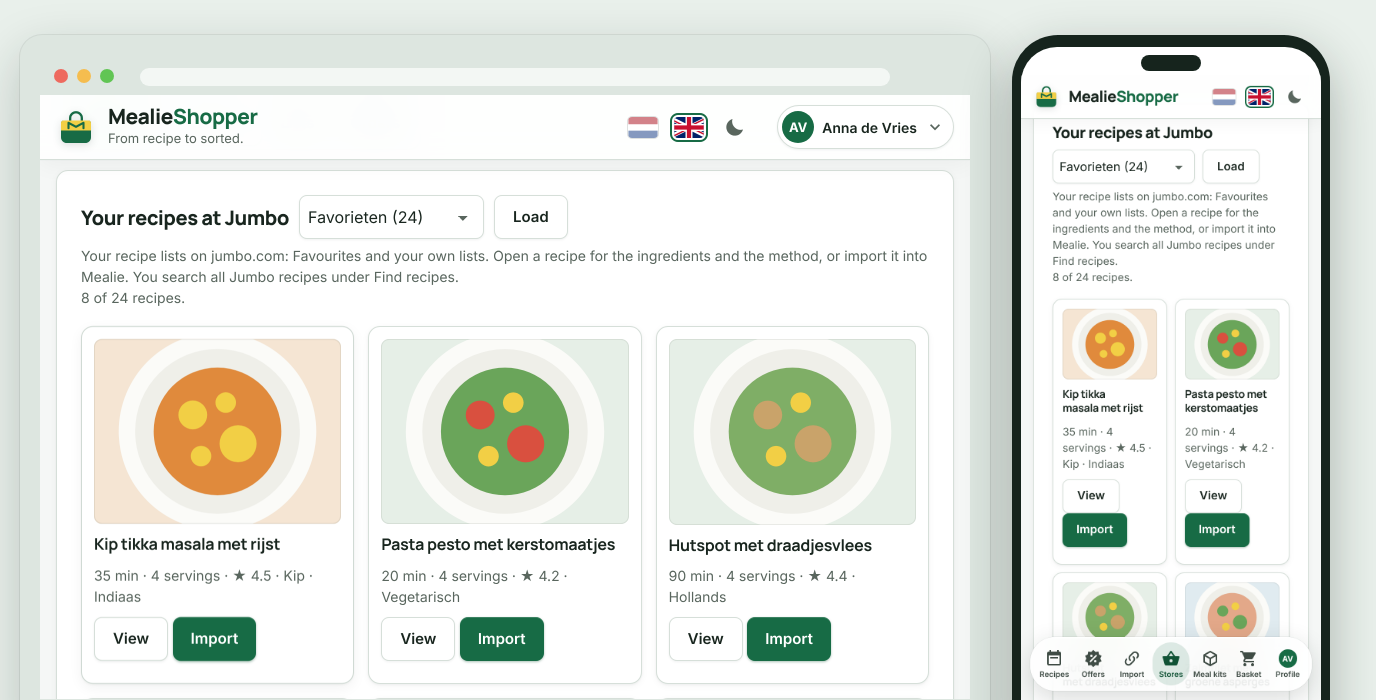
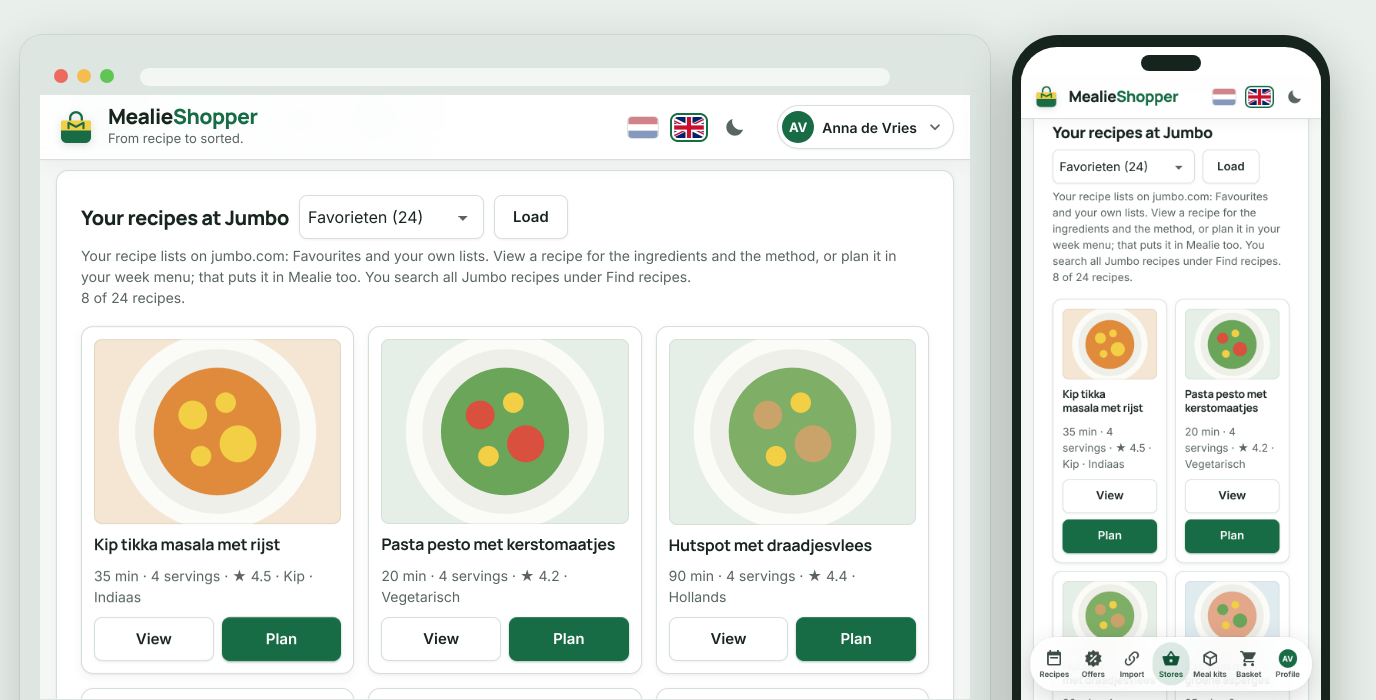
Picnic- en Jumbo-recepten: uitleg noemt Bekijken en Inplannen (2.85.2)
De uitleg boven de recepten bij Winkels > Picnic en Winkels > Jumbo zei nog
"Open een recept ..., of importeer het in Mealie". Sinds 2.83.0 (#162) heeft
elke kaart Bekijken en Inplannen; importeren zonder inplannen gaat alleen
vanuit het recept. De tekst volgt nu Recepten zoeken en Maaltijdboxen, in
nl.js, en.js en de Nederlandse terugvaltekst in index.html. De README
(Winkels: Picnic) is in beide talen op dezelfde manier bijgewerkt.

- VERSION 2.85.2, add-ons bijgewerkt met scripts/ha_addon.py
- MEALIESHOPPER_ASSET_VERSION 20261101-63 voor de gewijzigde vertalingen
- Screenshots picnic-recipes en jumbo-recipes (nl en en) opnieuw gemaakt

Claude-Session: https://claude.ai/code/session_01KSdu55fnhxTG7PNXzdFtso

diff --git a/templates/index.html b/templates/index.html
@@ -686,7 +686,7 @@
             <svg class="searchbar__icon" viewBox="0 0 24 24" aria-hidden="true"><path d="M9.5,3A6.5,6.5 0 0,1 16,9.5C16,11.11 15.41,12.59 14.44,13.73L14.71,14H15.5L20.5,19L19,20.5L14,15.5V14.71L13.73,14.44C12.59,15.41 11.11,16 9.5,16A6.5,6.5 0 0,1 3,9.5A6.5,6.5 0 0,1 9.5,3M9.5,5C7,5 5,7 5,9.5C5,12 7,14 9.5,14C12,14 14,12 14,9.5C14,7 12,5 9.5,5Z"/></svg>
             <input class="input" id="picnic-recipe-filter" type="search" placeholder="Zoek in de recepten" autocomplete="off" enterkeyhint="search" disabled data-i18n-attr="placeholder:picnic.recipes.search">
           </label>
-          <p class="muted" data-i18n="picnic.recipes.intro">Je recepten uit de Picnic-app: Koken > Bewaard, Opnieuw bestellen en het kookboek. Open een recept voor de ingrediënten en de bereiding, of importeer het in Mealie.</p>
+          <p class="muted" data-i18n="picnic.recipes.intro">Je recepten uit de Picnic-app: Koken > Bewaard, Opnieuw bestellen en het kookboek. Bekijk een recept voor de ingrediënten en de bereiding, of plan het in je weekmenu; dan komt het ook in Mealie.</p>
           <p class="muted" id="picnic-recipes-status"></p>
           <div id="picnic-recipes-message"></div>
           <div id="picnic-recipes" class="recipe-grid recipe-grid--compact"></div>
@@ -726,7 +726,7 @@
             <select id="jumbo-recipe-list" class="store-select" hidden aria-label="Lijst" data-i18n-attr="aria-label:jumbo.favorites.list"></select>
             <button class="button button--secondary" id="load-jumbo-favorites" type="button" data-i18n="common.load">Laden</button>
           </div>
-          <p class="muted" data-i18n="jumbo.favorites.intro">Je receptenlijsten op jumbo.com: Favorieten en je eigen lijstjes. Open een recept voor de ingrediënten en de bereiding, of importeer het in Mealie. Zoeken in alle Jumbo-recepten doe je bij Recepten zoeken.</p>
+          <p class="muted" data-i18n="jumbo.favorites.intro">Je receptenlijsten op jumbo.com: Favorieten en je eigen lijstjes. Bekijk een recept voor de ingrediënten en de bereiding, of plan het in je weekmenu; dan komt het ook in Mealie. Zoeken in alle Jumbo-recepten doe je bij Recepten zoeken.</p>
           <p class="muted" id="jumbo-favorites-status"></p>
           <div id="jumbo-favorites-message"></div>
           <div id="jumbo-favorites" class="recipe-grid recipe-grid--compact"></div>

diff --git a/static/i18n/nl.js b/static/i18n/nl.js
@@ -341,7 +341,7 @@ I18N.add("nl", {
   "rsearch.no_steps_mealie": "Dit recept heeft in Mealie geen bereiding.",
   "jumbo.favorites.tab": "Recepten",
   "jumbo.favorites.title": "Je recepten bij Jumbo",
-  "jumbo.favorites.intro": "Je receptenlijsten op jumbo.com: Favorieten en je eigen lijstjes. Open een recept voor de ingrediënten en de bereiding, of importeer het in Mealie. Zoeken in alle Jumbo-recepten doe je bij Recepten zoeken.",
+  "jumbo.favorites.intro": "Je receptenlijsten op jumbo.com: Favorieten en je eigen lijstjes. Bekijk een recept voor de ingrediënten en de bereiding, of plan het in je weekmenu; dan komt het ook in Mealie. Zoeken in alle Jumbo-recepten doe je bij Recepten zoeken.",
   "jumbo.favorites.none": "Deze lijst heeft geen recepten.",
   "jumbo.favorites.back": "Terug naar de lijst",
   "jumbo.favorites.list": "Lijst",
@@ -904,7 +904,7 @@ I18N.add("nl", {
   "picnic.recipes.source_ordered": "Opnieuw bestellen",
   "picnic.recipes.source_cookbook": "Kookboek",
   "picnic.recipes.search": "Zoek in de recepten",
-  "picnic.recipes.intro": "Je recepten uit de Picnic-app: Koken > Bewaard, Opnieuw bestellen en het kookboek. Open een recept voor de ingrediënten en de bereiding, of importeer het in Mealie.",
+  "picnic.recipes.intro": "Je recepten uit de Picnic-app: Koken > Bewaard, Opnieuw bestellen en het kookboek. Bekijk een recept voor de ingrediënten en de bereiding, of plan het in je weekmenu; dan komt het ook in Mealie.",
   "picnic.recipes.count": "Aantal recepten: {count}.",
   "picnic.recipes.none": "Er staan geen recepten in deze lijst.",
   "picnic.recipes.none_match": "Geen recept met \"{query}\".",

diff --git a/static/i18n/en.js b/static/i18n/en.js
@@ -341,7 +341,7 @@ I18N.add("en", {
   "rsearch.no_steps_mealie": "This recipe has no instructions in Mealie.",
   "jumbo.favorites.tab": "Recipes",
   "jumbo.favorites.title": "Your recipes at Jumbo",
-  "jumbo.favorites.intro": "Your recipe lists on jumbo.com: Favourites and your own lists. Open a recipe for the ingredients and the method, or import it into Mealie. You search all Jumbo recipes under Find recipes.",
+  "jumbo.favorites.intro": "Your recipe lists on jumbo.com: Favourites and your own lists. View a recipe for the ingredients and the method, or plan it in your week menu; that puts it in Mealie too. You search all Jumbo recipes under Find recipes.",
   "jumbo.favorites.none": "This list has no recipes.",
   "jumbo.favorites.back": "Back to the list",
   "jumbo.favorites.list": "List",
@@ -904,7 +904,7 @@ I18N.add("en", {
   "picnic.recipes.source_ordered": "Order again",
   "picnic.recipes.source_cookbook": "Cookbook",
   "picnic.recipes.search": "Search the recipes",
-  "picnic.recipes.intro": "Your recipes from the Picnic app: Cook > Saved, Order again and the cookbook. Open a recipe for the ingredients and the preparation, or import it into Mealie.",
+  "picnic.recipes.intro": "Your recipes from the Picnic app: Cook > Saved, Order again and the cookbook. View a recipe for the ingredients and the method, or plan it in your week menu; that puts it in Mealie too.",
   "picnic.recipes.count": "Number of recipes: {count}.",
   "picnic.recipes.none": "There are no recipes in this list.",
   "picnic.recipes.none_match": "No recipe matches \"{query}\".",

diff --git a/mealieshopper/app.py b/mealieshopper/app.py
@@ -23,7 +23,7 @@ mimetypes.add_type("application/manifest+json", ".webmanifest")
 
 def create_app() -> Flask:
     app = Flask(__name__, template_folder="../templates", static_folder="../static")
-    app.config["ASSET_VERSION"] = environ.get("MEALIESHOPPER_ASSET_VERSION", "20261101-62")
+    app.config["ASSET_VERSION"] = environ.get("MEALIESHOPPER_ASSET_VERSION", "20261101-63")
     # De receptvoorstellen bij Aanbiedingen staan standaard verborgen zolang de koppelingen niet goed genoeg zijn.
     app.config["OFFERS_RECIPES"] = environ.get("MEALIESHOPPER_OFFERS_RECIPES", "false").strip().lower() in {"1", "true", "yes", "on"}
 

diff --git a/CHANGELOG.md b/CHANGELOG.md
@@ -2,6 +2,15 @@
 
 Elke release heeft hier een eigen kopje `## vX.Y.Z` en wordt bij het mergen naar `main` automatisch een GitHub release (zie [Releases](#releases)). De tekst onder het kopje is de release-tekst op GitHub; een stabiele release krijgt de teksten van alle versies sinds de vorige stabiele release.
 
+## v2.85.2
+
+### Opgelost in 2.85.2
+
+*English summary: the explanation above the recipes under Stores > Picnic and Stores > Jumbo still said "open a recipe, or import it into Mealie". Since 2.83.0 every card has **View** and **Plan**, and importing without planning only happens from the recipe itself; the text now says so, like Find recipes and Meal kits. Reload the page once after updating.*
+
+- **De uitleg boven de recepten bij Winkels > Picnic en Winkels > Jumbo klopt weer.** Er stond nog *Open een recept voor de ingrediënten en de bereiding, of importeer het in Mealie*. Sinds 2.83.0 ([#162](https://github.com/helmerzNL/MealieShopper/pull/162)) heeft elke kaart **Bekijken** en **Inplannen**, en importeren zonder in te plannen doe je alleen in het recept zelf. Er staat nu, net als bij Recepten zoeken en Maaltijdboxen: *Bekijk een recept voor de ingrediënten en de bereiding, of plan het in je weekmenu; dan komt het ook in Mealie.* De README (Winkels: Picnic) is op dezelfde manier bijgewerkt, in het Nederlands en het Engels, en de screenshots `picnic-recipes` en `jumbo-recipes` zijn opnieuw gemaakt.
+- **Nieuw adres voor de scripts en stijlen** (`MEALIESHOPPER_ASSET_VERSION`); ververs de pagina één keer.
+
 ## v2.85.1
 
 ### Opgelost in 2.85.1

diff --git a/README.md b/README.md
@@ -139,7 +139,7 @@ Je **kassabonnen** uit de winkel, weergegeven zoals op papier: aantal, omschrijv
 
 ### Winkels: Picnic
 
-Kies in het winkelmenu **Picnic**; dan staan er drie tabs. **Recepten** toont je recepten uit de Picnic-app (*Bewaard*, *Opnieuw bestellen* en het *Kookboek*) als kaarten; open een recept voor de ingrediënten en de bereiding, of importeer het in Mealie.
+Kies in het winkelmenu **Picnic**; dan staan er drie tabs. **Recepten** toont je recepten uit de Picnic-app (*Bewaard*, *Opnieuw bestellen* en het *Kookboek*) als kaarten; `Bekijken` toont de ingrediënten en de bereiding, en `Inplannen` zet het recept in je weekmenu (en in Mealie).
 
 <img src="docs/screenshots/nl/picnic-recipes.png" alt="Picnic-recepten als kaarten, met een keuze tussen Bewaard, Opnieuw bestellen en Kookboek" width="900">
 

diff --git a/README.en.md b/README.en.md
@@ -139,7 +139,7 @@ Your **receipts** from the shop, shown the way they look on paper: quantity, des
 
 ### Stores: Picnic
 
-Choose **Picnic** in the store menu; three tabs appear. **Recipes** shows your recipes from the Picnic app (*Saved*, *Order again* and the *Cookbook*) as cards; open a recipe for the ingredients and the method, or import it into Mealie.
+Choose **Picnic** in the store menu; three tabs appear. **Recipes** shows your recipes from the Picnic app (*Saved*, *Order again* and the *Cookbook*) as cards; `View` shows the ingredients and the method, and `Plan` puts the recipe in your week menu (and in Mealie).
 
 <img src="docs/screenshots/en/picnic-recipes.png" alt="Picnic recipes as cards, with a choice between Saved, Order again and Cookbook" width="900">
 
